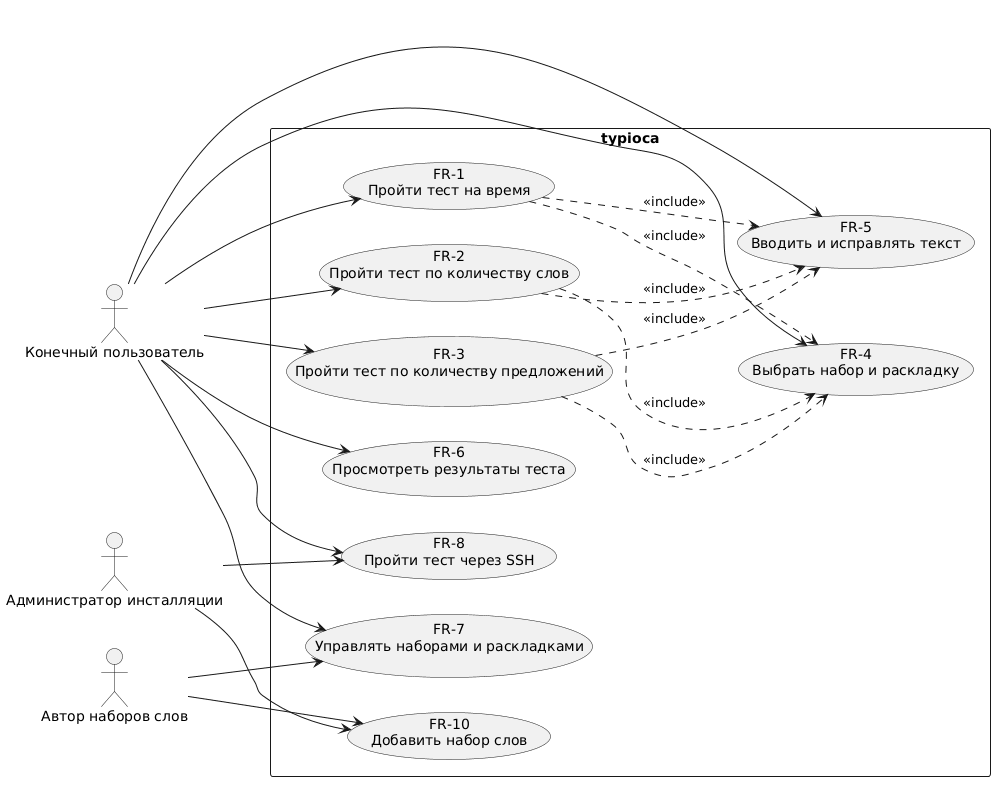
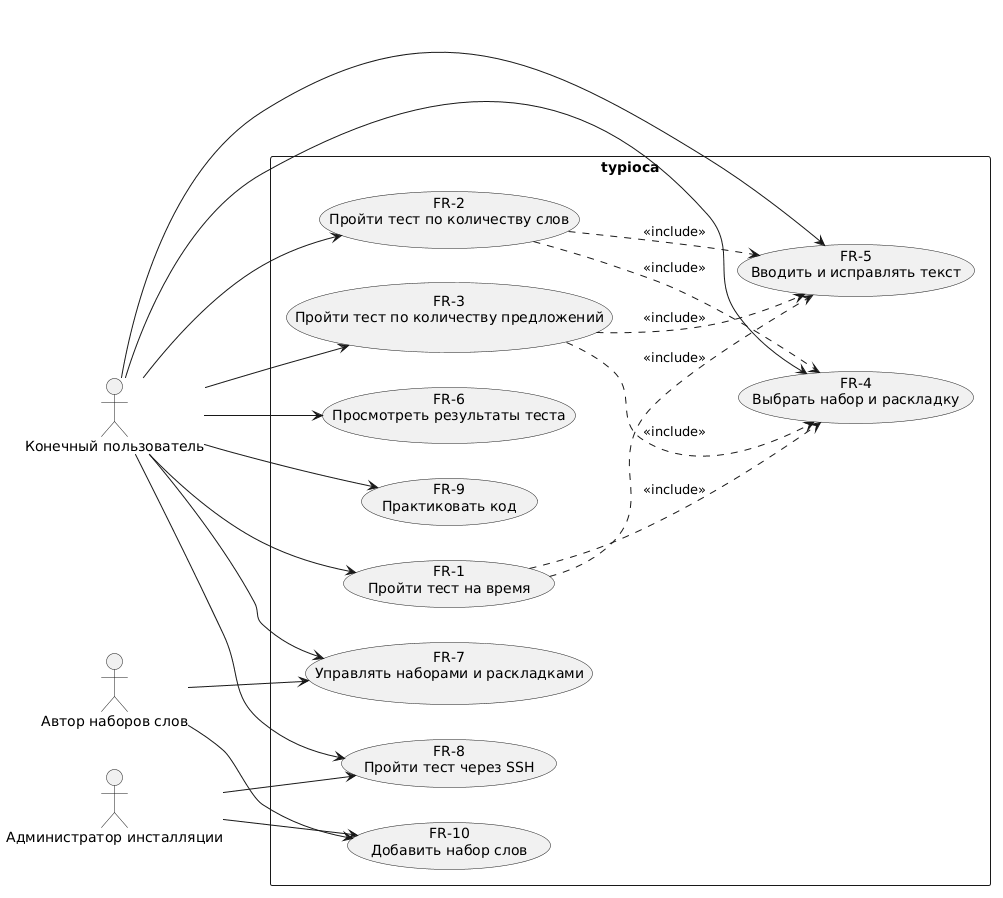
docs: make code practice the planned FR-9

diff --git a/docs/01-requirements.md b/docs/01-requirements.md
@@ -1,7 +1,7 @@
 # Требования к проекту typioca
 
-Версия документа: 1.1
-Дата: 19.11.2026
+Версия документа: 1.2
+Дата: 20.11.2026
 Проект: форк <https://github.com/bloznelis/typioca>, база `baf4170`.
 
 ## 1. О приложении
@@ -97,13 +97,15 @@ CPM, точность и график по секундам.
 Признак выполнения: после `ssh -p 2229 <host>` открывается то же меню, тест
 проходится удалённо, результат сохраняется на машине сервера.
 
-### FR-9. История результатов
+### FR-9. Практика на коде
 
-Конечный пользователь может просмотреть историю сохранённых результатов
-по режиму и набору.
-Приоритет: желательно. Состояние: нужно сделать.
-Признак выполнения: отдельный экран показывает до 25 последних результатов
-для выбранного режима и набора; при отсутствии истории показывается пустой список.
+Пользователь может тренироваться на наборах слов и фрагментах для языков
+программирования и видеть подсветку синтаксиса при вводе.
+Приоритет: обязательно. Состояние: нужно сделать.
+Признак выполнения: в меню тестов доступны наборы для Rust, Swift, Go, Kotlin
+и Clojure; при вводе ключевые слова, строки и комментарии подсвечиваются,
+а подсветка не меняет расчёт WPM и точности; если набор языка не загружен,
+остальные наборы и режимы работают.
 
 ### FR-10. Добавление своего набора слов
 
@@ -228,14 +230,18 @@ raw WPM 50; приложение не блокирует ввод и не зав
 **Неверные данные:** неверный порт даёт отказ соединения; подключение без PTY
 завершается сообщением `not a tty`, тест не начинается.
 
-### US-9. История результатов (FR-9, планируется)
+### US-9. Практика на коде (FR-9, планируется)
 
 - **Роль:** конечный пользователь.
-- **Вход:** несколько сохранённых результатов в `results.json`.
-- **Шаги:** открыть историю → выбрать режим и набор.
-- **Выход:** список до 25 последних результатов с WPM, точностью и датой.
+- **Вход:** запущенное приложение, загруженный набор `Go`, режим
+  `Word count run`.
+- **Шаги:** выбрать `Word count run` → `25` → `Go` → Enter → ввести код.
+- **Выход:** слова и фрагменты берутся из набора `Go`, ключевые слова, строки
+  и комментарии подсвечиваются; WPM и точность считаются как для обычного
+  текста.
 
-**Неверные данные:** если истории нет, показывается пустой список без ошибки.
+**Неверные данные:** набор языка не загружен. Набор не появляется в меню,
+приложение запускается, остальные наборы и режимы доступны.
 
 ### US-10. Добавление своего набора слов (FR-10)
 
@@ -281,16 +287,14 @@ raw WPM 50; приложение не блокирует ввод и не зав
 
 | Диаграмма | Файл | Назначение | Связь |
 | --- | --- | --- | --- |
-| Контекст | [puml](diagrams/context.puml), [png](diagrams/context.png) | Границы системы, роли и внешние системы | FR-1…FR-8, FR-10 |
+| Контекст | [puml](diagrams/context.puml), [png](diagrams/context.png) | Границы системы, роли и внешние системы | FR-1…FR-10 |
 | Деятельность | [puml](diagrams/activity-main.puml), [png](diagrams/activity-main.png) | Основной процесс прохождения теста | FR-1…FR-6 |
-| Варианты использования | [puml](diagrams/use-cases.puml), [png](diagrams/use-cases.png) | Варианты использования с номерами FR | FR-1…FR-8, FR-10 |
+| Варианты использования | [puml](diagrams/use-cases.puml), [png](diagrams/use-cases.png) | Варианты использования с номерами FR | FR-1…FR-10 |
 | Последовательность, успех | [puml](diagrams/sequence-word-test.puml), [png](diagrams/sequence-word-test.png) | Тест по словам и сохранение результата | US-2, FR-2 |
 | Последовательность, ошибка | [puml](diagrams/sequence-sync-error.puml), [png](diagrams/sequence-sync-error.png) | Ошибка синхронизации набора | US-7, FR-7 |
 | Классы / данные | [puml](diagrams/class-model.puml), [png](diagrams/class-model.png) | Пять сущностей предметной области | FR-1…FR-7 |
 | Состояния | [puml](diagrams/state-test-session.puml), [png](diagrams/state-test-session.png) | Жизненный цикл сеанса теста | US-1…US-3, FR-1…FR-3 |
 | Карта кода | [puml](diagrams/code-map.puml), [png](diagrams/code-map.png) | Файлы, функции и потоки данных для разработчика | весь код |
-
-FR-9 не показана на диаграмме вариантов использования: она ещё запланирована.
 
 Диаграмма состояний построена для сеанса теста: у него есть явный жизненный цикл
 от главного меню до результатов, поэтому отдельный объект «заявка» не требуется.

diff --git a/CHANGELOG.md b/CHANGELOG.md
@@ -1,5 +1,18 @@
 # Журнал изменений
 
+## 1.2 — 20.11.2026
+
+Исправление направления форка в требованиях.
+
+### Изменено
+
+- FR-9 больше не описывает историю результатов: это практика на коде —
+  наборы для Rust, Swift, Go, Kotlin и Clojure и подсветка синтаксиса.
+- US-9 переписан под практику на коде; вариант использования FR-9 добавлен
+  на диаграмму вариантов использования.
+- В README обновлена строка статуса FR-9.
+- В паспорт проекта добавлен раздел «Планируемое развитие».
+
 ## 1.1 — 19.11.2026
 
 Уточнение документа требований и паспорта проекта.

diff --git a/docs/00-project.md b/docs/00-project.md
@@ -39,6 +39,12 @@
 3. **Просмотр результатов и удалённый доступ:** сохранение истории локально,
    график результатов и встроенный SSH-сервер для подключения из терминала.
 
+## Планируемое развитие
+
+Форк развивает typioca в тренажёр для программистов: добавляет наборы слов
+и фрагментов для Rust, Swift, Go, Kotlin и Clojure и подсветку синтаксиса
+при вводе. Эти возможности ещё не реализованы.
+
 ## Технологический стек
 
 | Слой | Технологии |

diff --git a/README.md b/README.md
@@ -45,7 +45,7 @@ make build
 | FR-6 | Просмотр результатов | обязательно | уже есть |
 | FR-7 | Управление наборами и раскладками | обязательно | уже есть |
 | FR-8 | Тест через SSH | желательно | уже есть |
-| FR-9 | История результатов | желательно | нужно сделать |
+| FR-9 | Практика на коде: наборы языков и подсветка синтаксиса | обязательно | нужно сделать |
 | FR-10 | Добавление своего набора слов | обязательно | уже есть |
 
 ## Синхронизация с upstream
